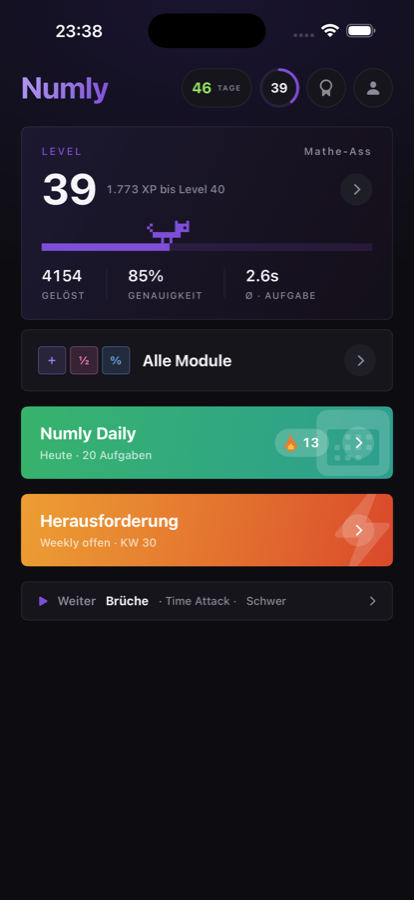
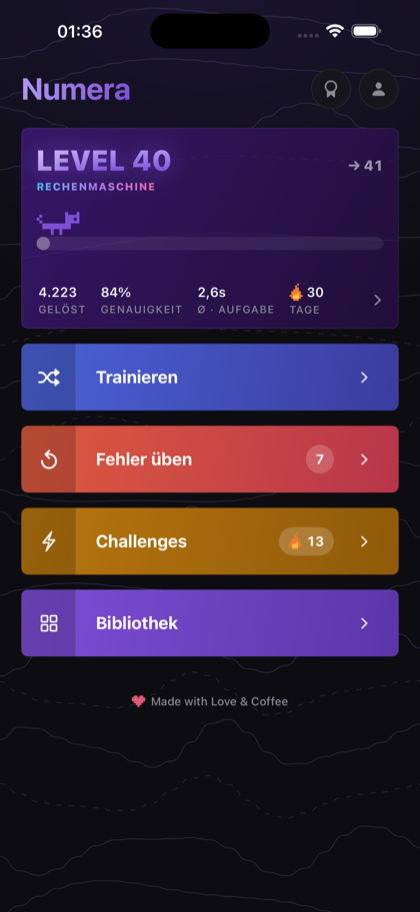
Store-Paket auf heutigen Stand: alle 27 Screenshots neu, Texte und Website entdriftet

diff --git a/index.html b/index.html
@@ -24,13 +24,13 @@
 
   <h1>Kopfrechnen jeden Tag.</h1>
   <p class="lead">
-    Numera ist ein Kopfrechentrainer für iPhone und iPad. 25 Module, vier Schwierigkeitsstufen
+    Numera ist ein Kopfrechentrainer für iPhone und iPad. 29 Module, vier Schwierigkeitsstufen
     und jeden Tag 20 neue Aufgaben — ohne Konto, ohne Internetverbindung, ohne Werbung.
   </p>
 
   <div class="shots">
-    <img src="img/home.png" alt="Startbildschirm von Numera mit Level, Tagesaufgabe und Wochen-Challenge" width="210">
-    <img src="img/play.png" alt="Eine Bruchaufgabe im Modus Time Attack" width="210">
+    <img src="img/home.png" alt="Startbildschirm von Numera mit Level, Trainingsserie und den vier farbigen Karten" width="210">
+    <img src="img/play.png" alt="Eine Additionsaufgabe im Modus Üben, mit Zifferntastenfeld" width="210">
     <img src="img/progress.png" alt="Fortschrittsseite mit Meisterschaftsstufen je Modul" width="210">
   </div>
 
@@ -43,14 +43,14 @@
       jede Aufgabe mit ihrer Lösung.</p>
     </div>
     <div class="card">
-      <h3>25 Module</h3>
+      <h3>29 Module</h3>
       <p class="muted">Vom kleinen Einmaleins über Brüche, Prozente und Gleichungen bis zu
-      binomischen Formeln, Dualzahlen und römischen Zahlen.</p>
+      Binär, Oktal und Hexadezimal, Kalender und römischen Zahlen.</p>
     </div>
     <div class="card">
-      <h3>Drei Spielarten</h3>
-      <p class="muted">Training ohne Uhr mit Lösung nach jedem Fehler, Time Attack gegen
-      60 Sekunden, Survival mit ablaufender Uhr.</p>
+      <h3>Zwei Spielarten</h3>
+      <p class="muted">Üben ohne Uhr, mit Lösung nach jedem Fehler. Survival mit fünf Leben
+      und einem Fragetimer, der mit jeder gelösten Aufgabe kürzer wird.</p>
     </div>
     <div class="card">
       <h3>Fehler kommen zurück</h3>

diff --git a/datenschutz.html b/datenschutz.html
@@ -41,8 +41,9 @@
   </p>
   <ul>
     <li>gelöste Aufgaben, richtige und falsche Antworten, Zeiten je Aufgabe</li>
-    <li>daraus abgeleitete Statistiken, Level, Meisterschaftsstufen, Bestwerte und Abzeichen</li>
-    <li>Serien (Trainingstage, Tagesaufgabe, Wochen-Challenge)</li>
+    <li>daraus abgeleitete Statistiken, Level, Meisterschaftsstufen, Bestwerte, Achievements
+        und Missions-Medaillen</li>
+    <li>Serien (Trainingstage, Daily Challenge)</li>
     <li>Einstellungen: Anzeigename, Erscheinungsbild, Ton, Erinnerungszeit, Fellfarbe</li>
   </ul>
   <p>
